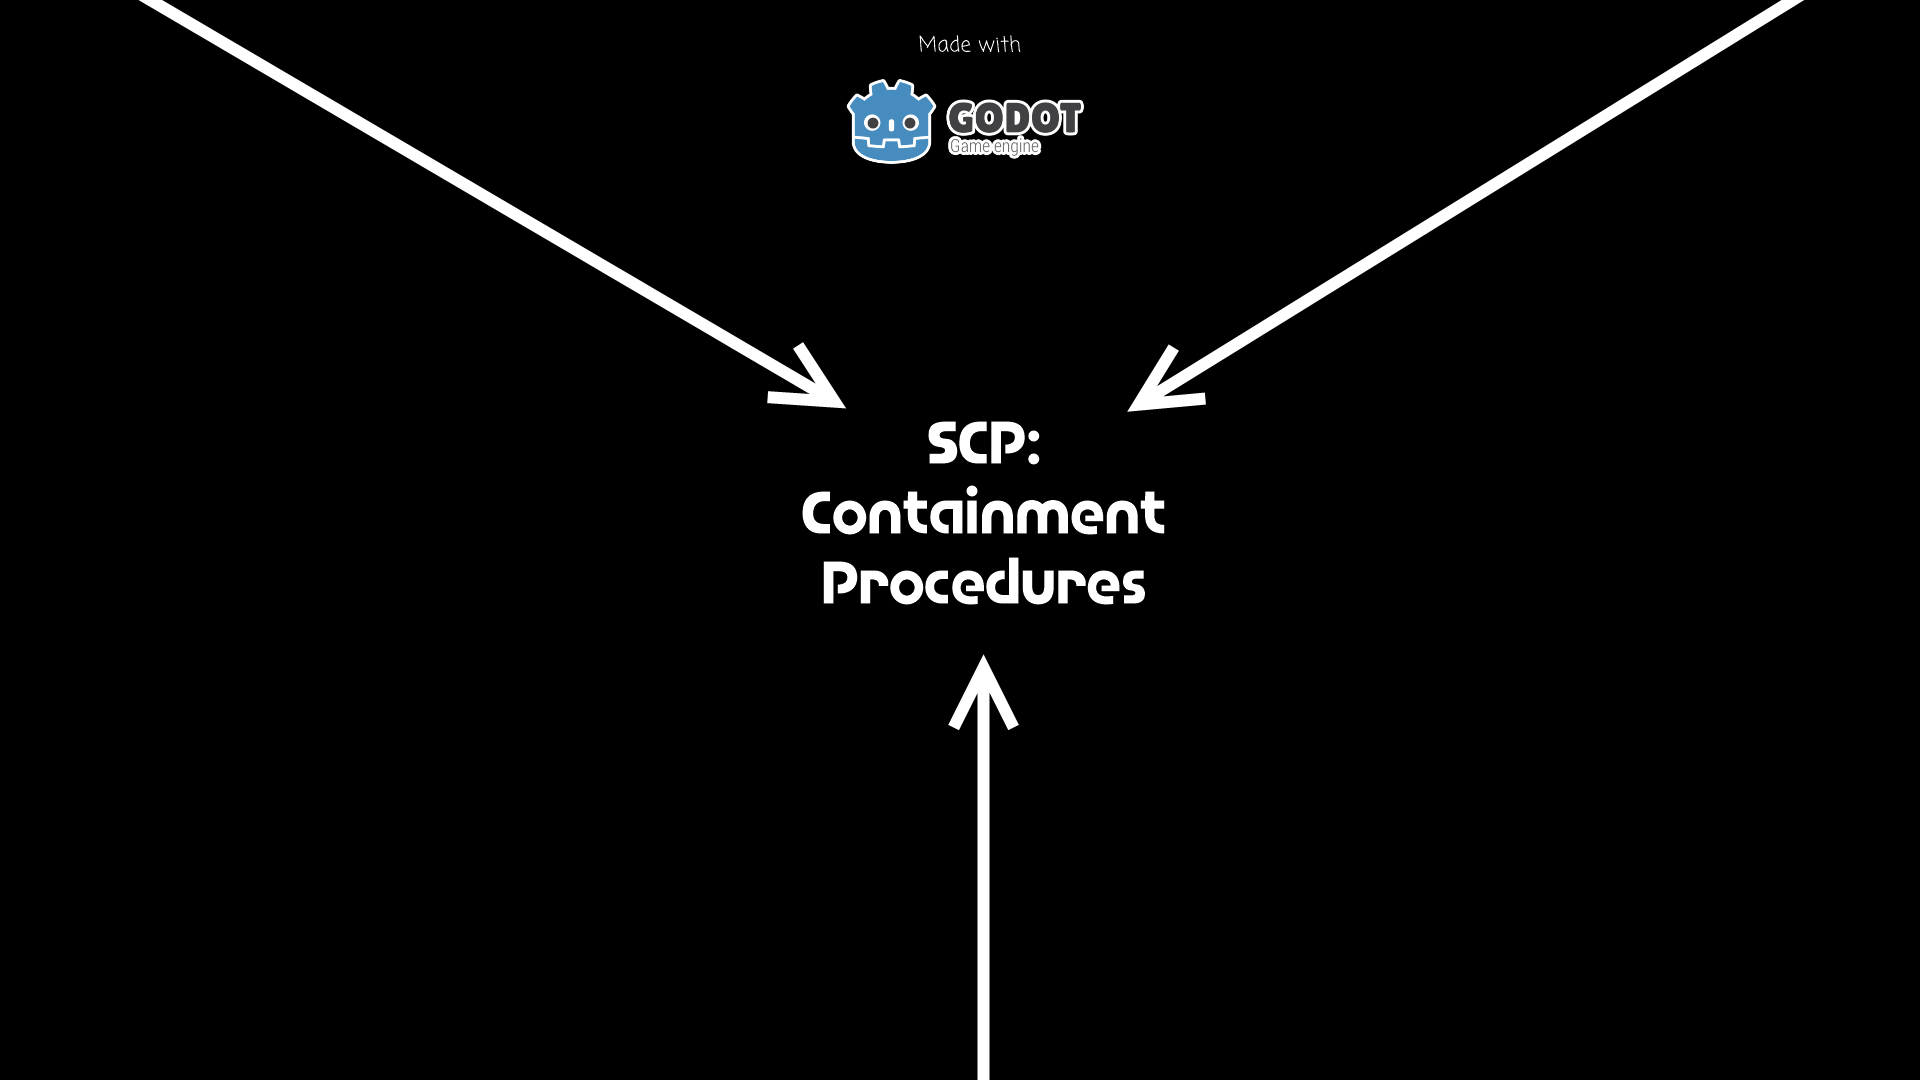
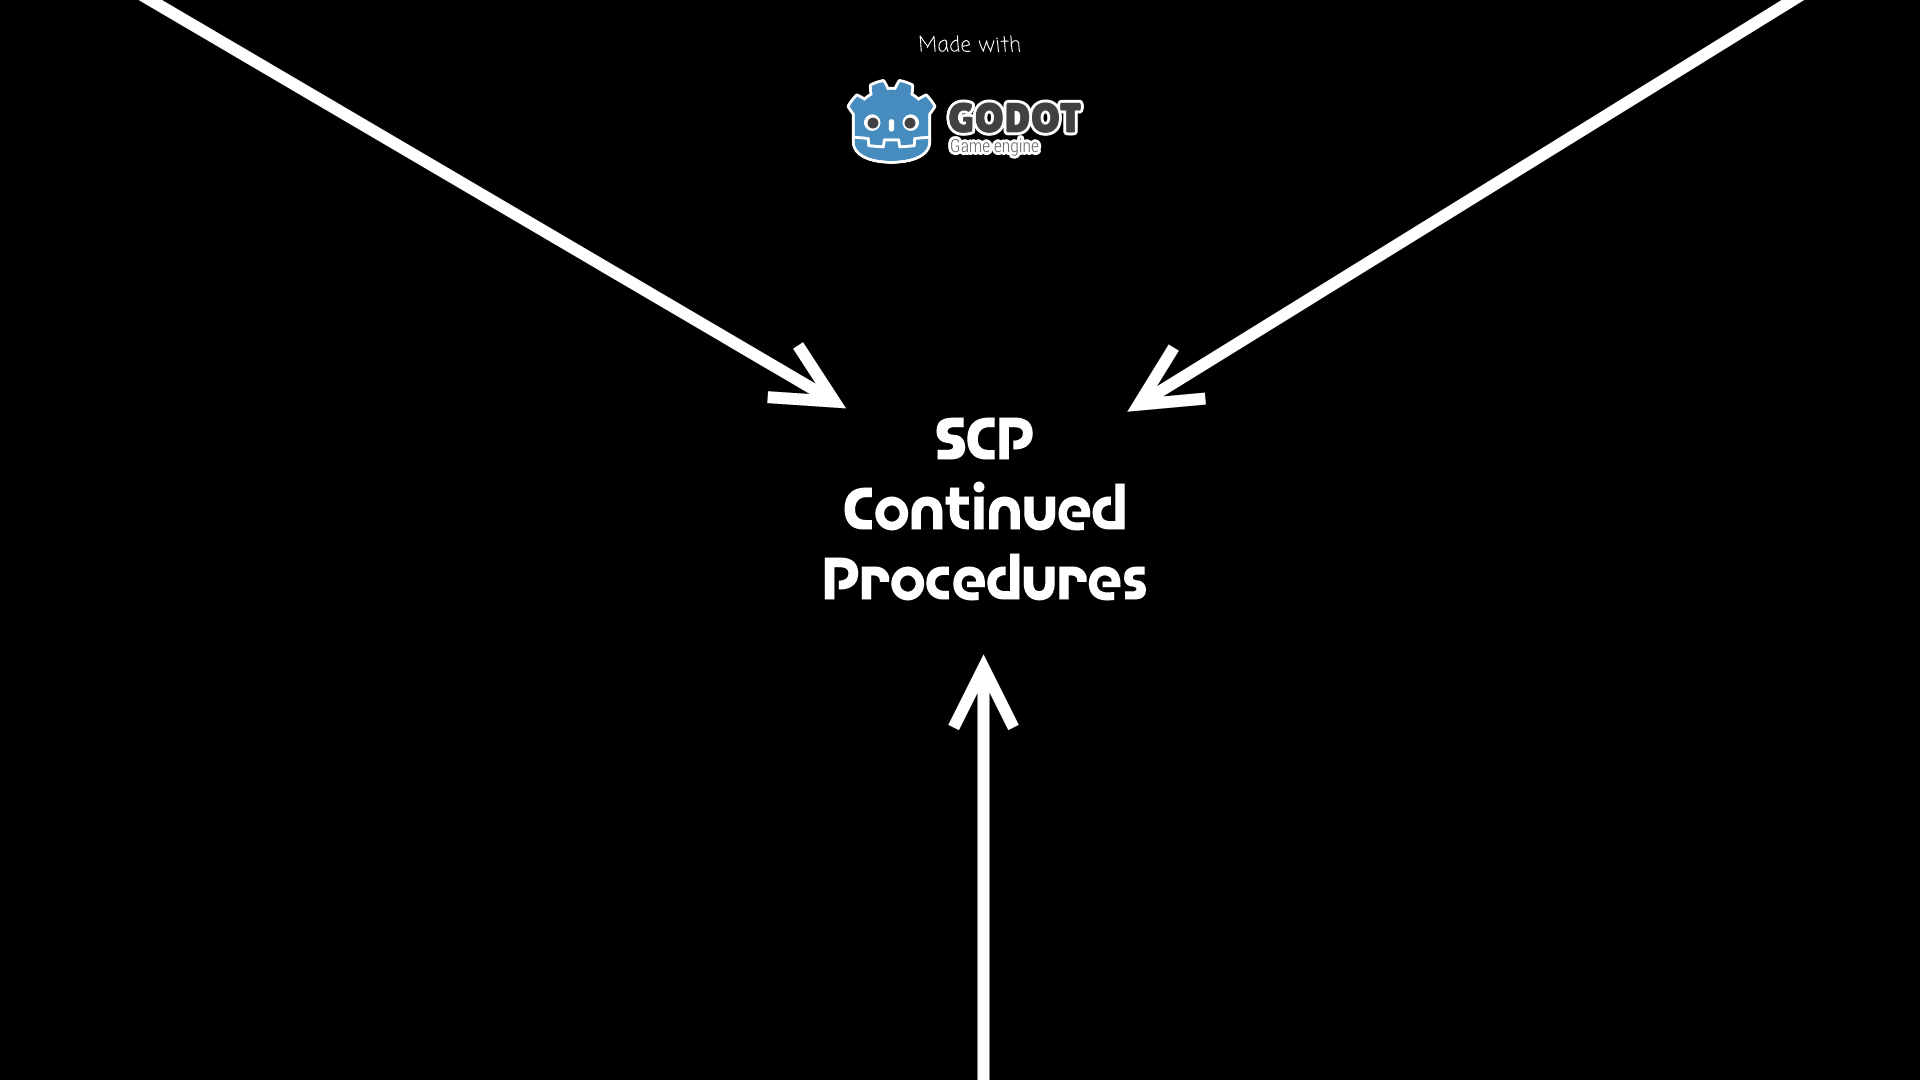
Re-branding
I decided to not re-use SCP-wiki motto and create something own.

Changed region(s): [[0.4062, 0.3667, 0.625, 0.5806]]

diff --git a/CHANGELOG-UPCOMING.md b/CHANGELOG-UPCOMING.md
@@ -1,4 +1,4 @@
-# SCP: Containment Procedures long-term plan
+# SCP: Continued Procedures long-term plan
 
 This list contains features, that will be probably added in next or undetermined versions.
 For actual game changes, please, refer to [game changelog](./CHANGELOG-FULL.md)

diff --git a/CHANGELOG-FULL.md b/CHANGELOG-FULL.md
@@ -1,4 +1,4 @@
-# SCP: Containment Procedures
+# SCP: Continued Procedures
 
 This list contains all features, added in the game, or will be added in upcoming version, that is in development.
 For plan, check [features changelog](./CHANGELOG-UPCOMING.md)

diff --git a/README.md b/README.md
@@ -1,4 +1,4 @@
-# SCP: Containment Procedures (Reborn)
+# SCP: Continued Procedures
 
 ## Requirements to build
 
